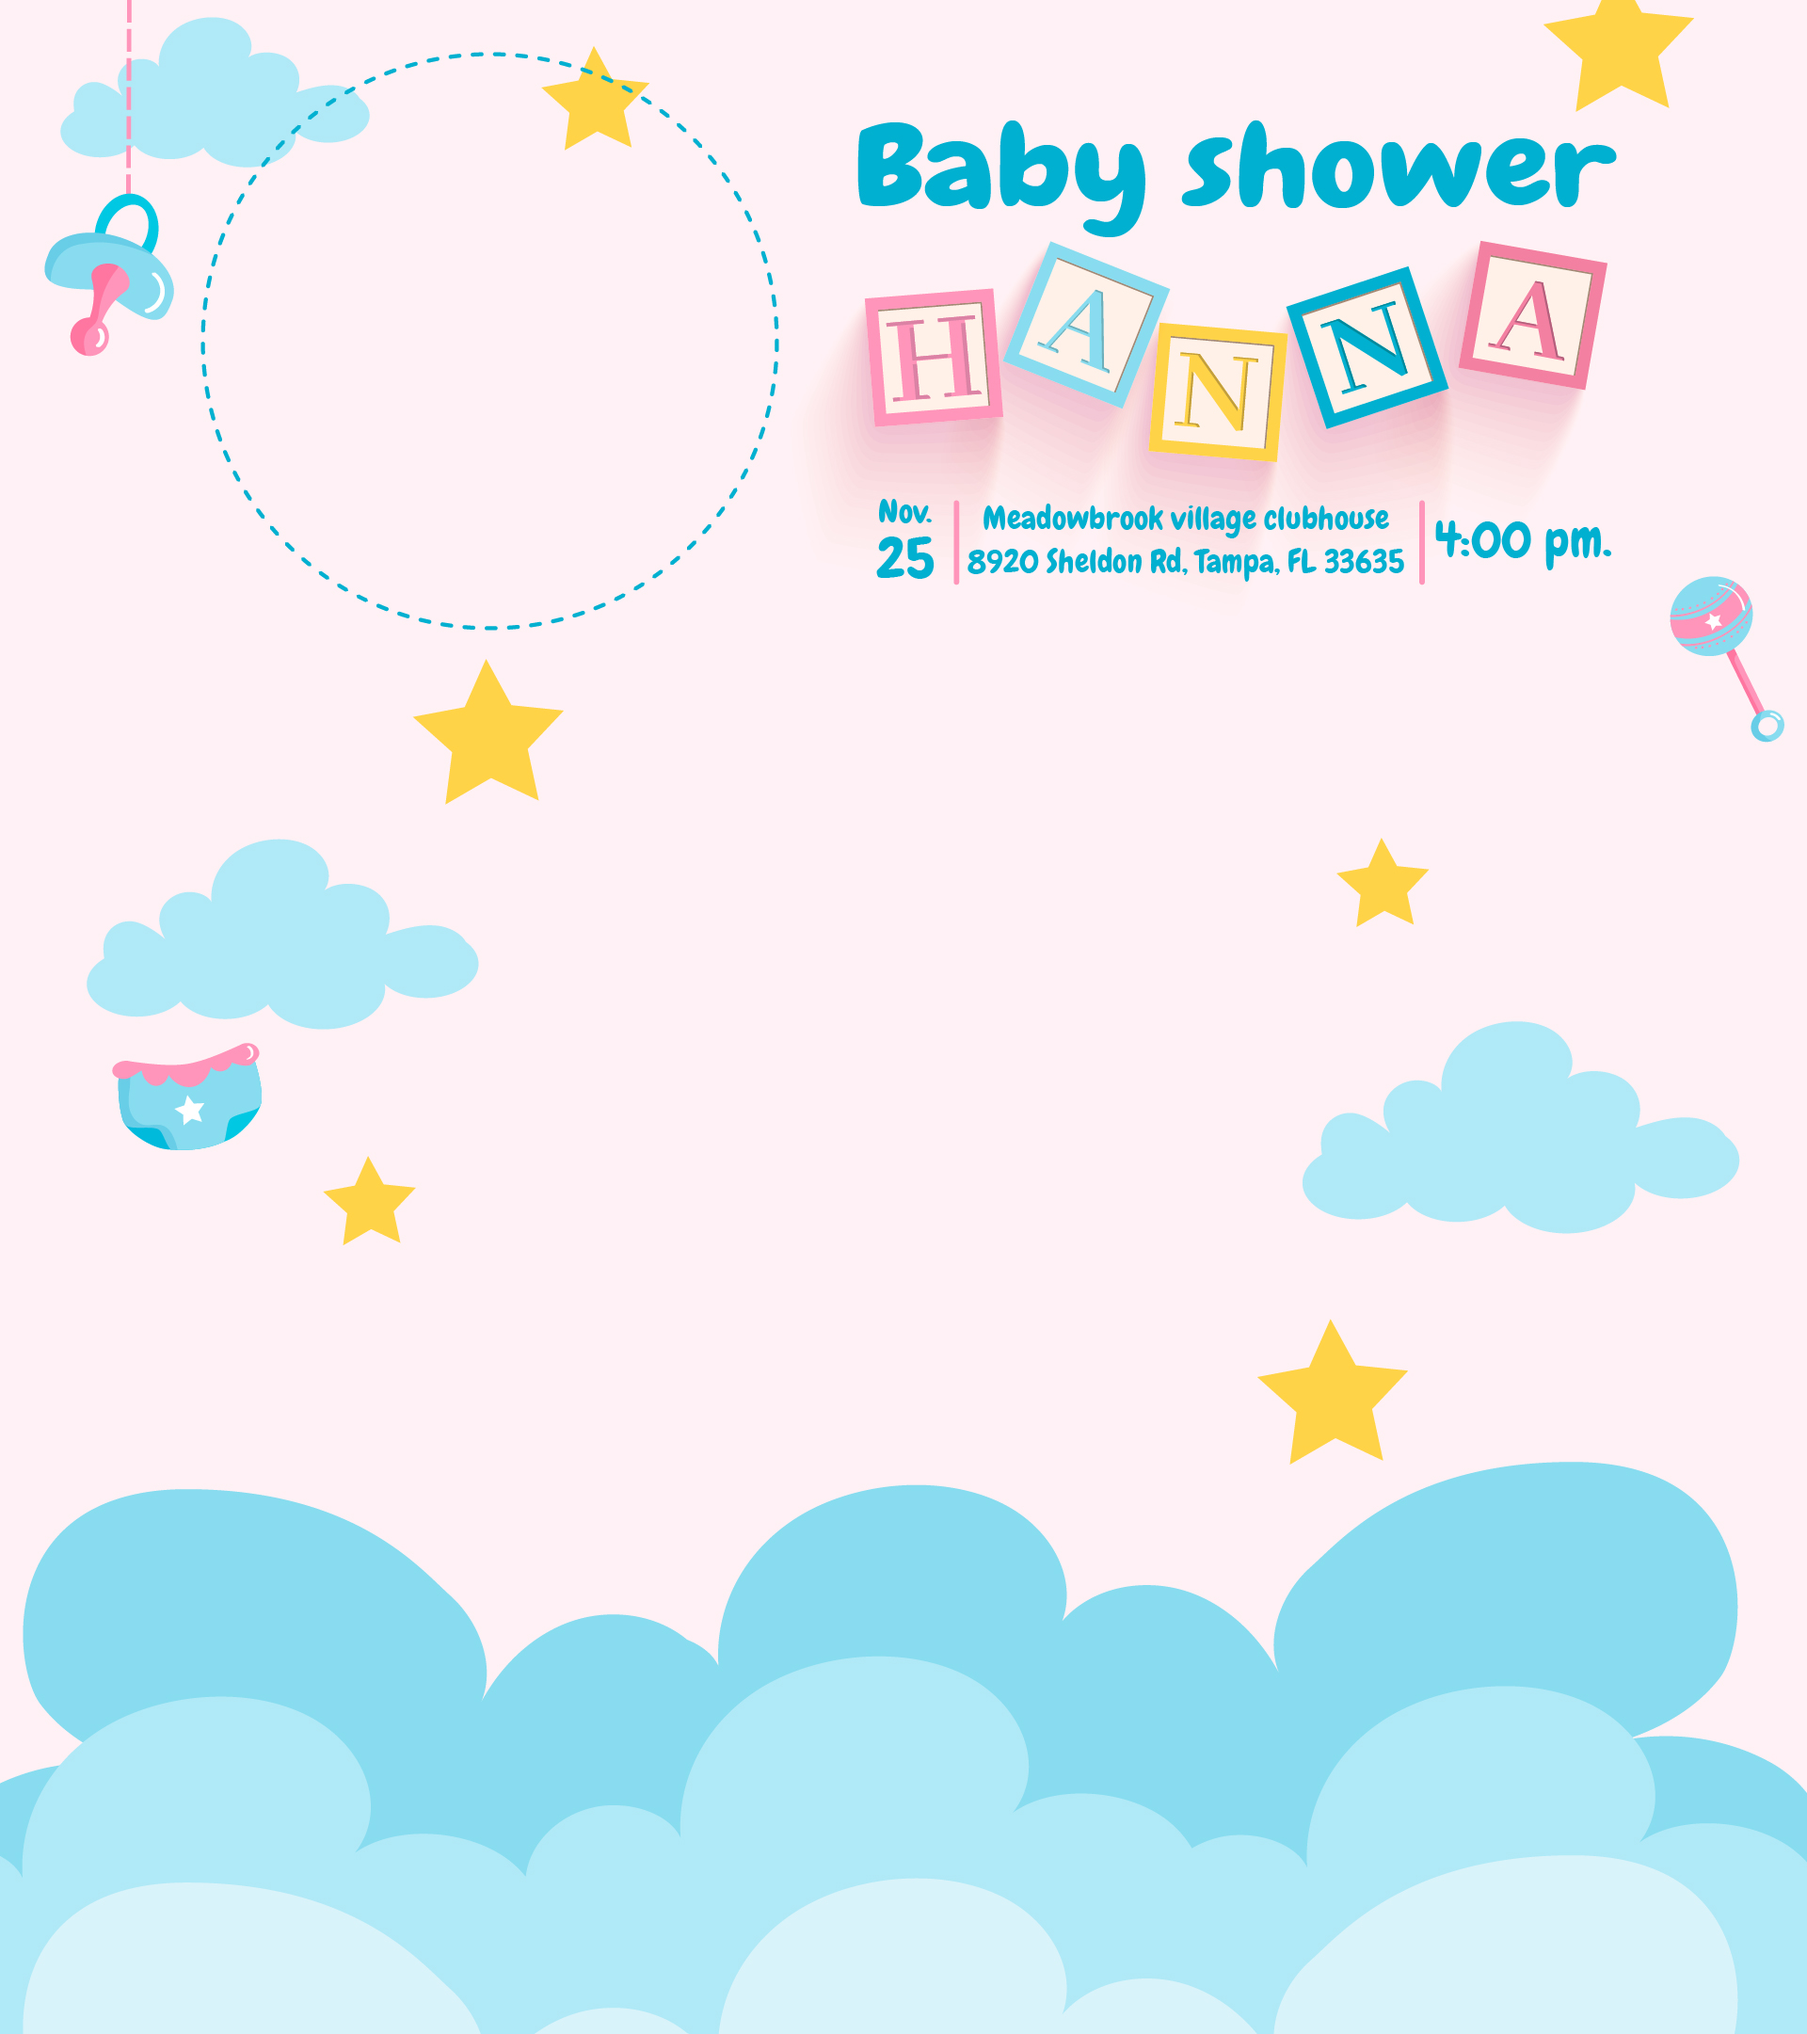
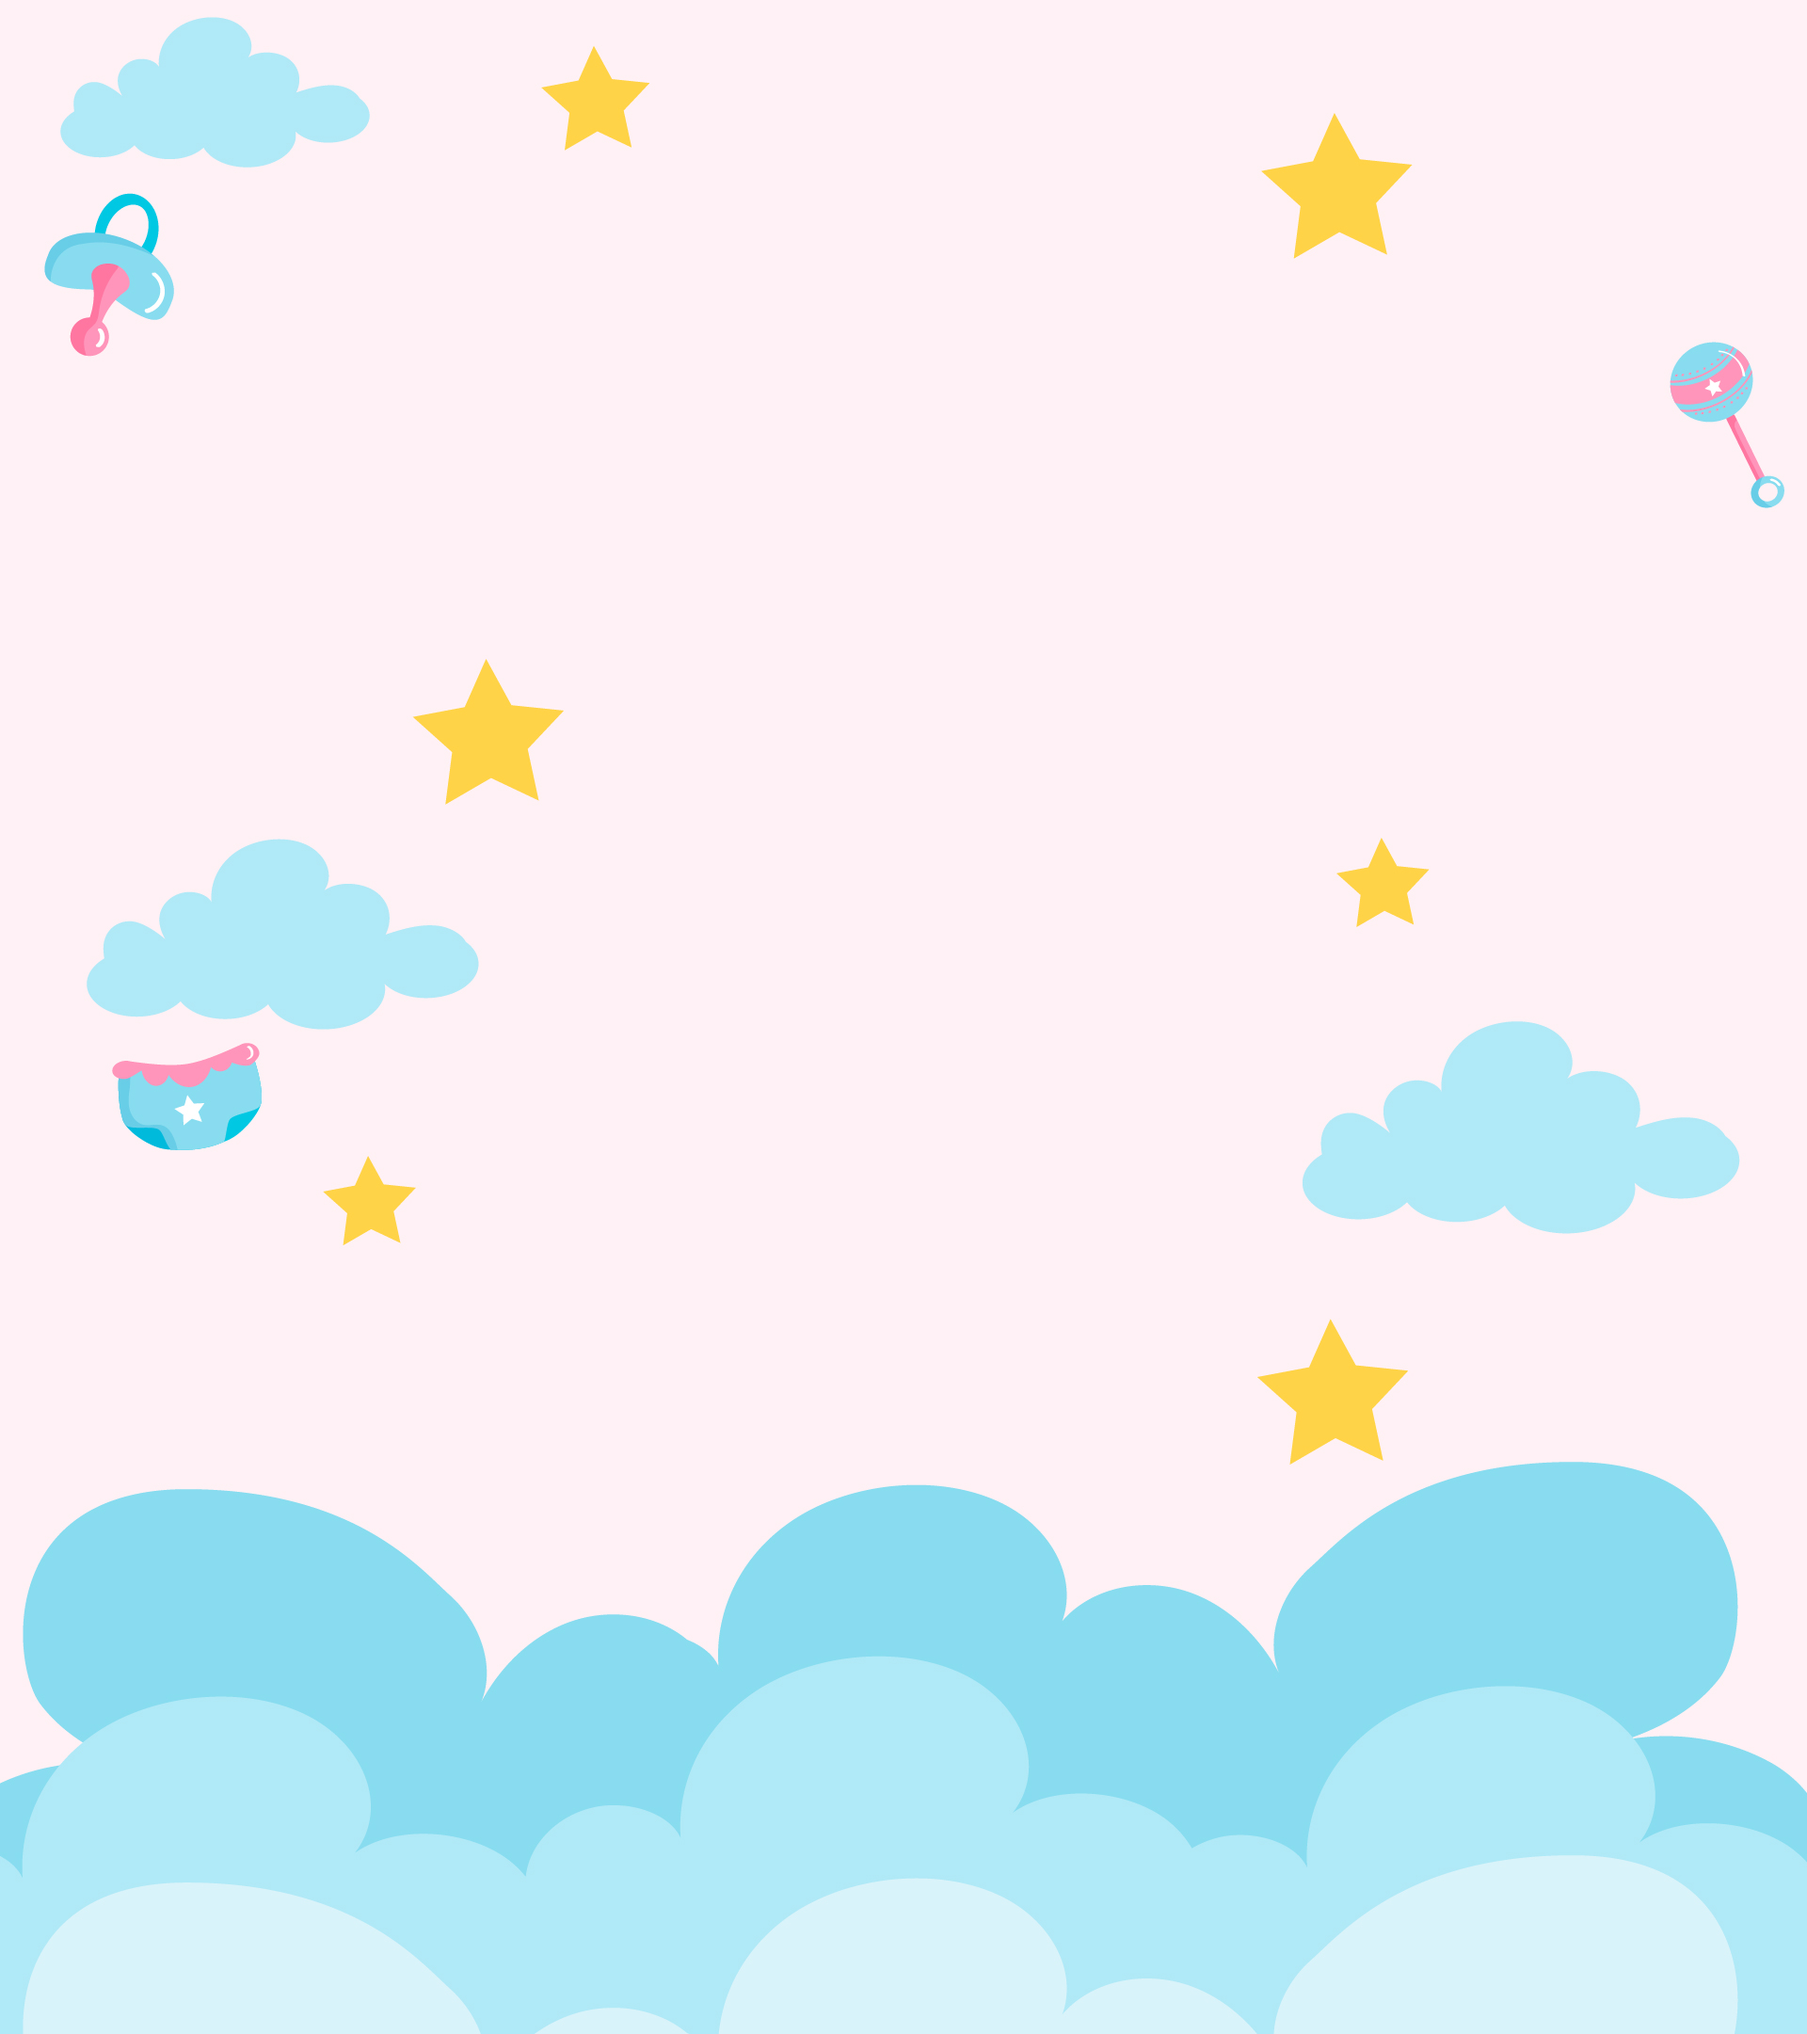
Finalizada la portada, trabajando en el cuerpo

diff --git a/src/Carrusel.jsx b/src/Carrusel.jsx
@@ -1,0 +1,35 @@
+import React, { useState } from 'react';
+import './Carrusel.css'
+
+const Carrusel = () => {
+    const [currentIndex, setCurrentIndex] = useState(0);
+    const images = ['public/img/Imagen1.jpeg', 'public/img/Imagen2.jpeg', 'public/img/Imagen3.jpeg', 'public/img/Imagen4.jpeg',
+    'public/img/Imagen5.jpeg', 'public/img/Imagen6.jpeg', 'public/img/Imagen7.jpeg', 'public/img/SebasDani.jpeg']; // Agrega más imágenes según sea necesario
+
+    const prevSlide = () => {
+        setCurrentIndex((currentIndex === 0) ? images.length - 1 : currentIndex - 1);
+    };
+
+    const nextSlide = () => {
+        setCurrentIndex((currentIndex === images.length - 1) ? 0 : currentIndex + 1);
+    };
+
+    return (
+        <div className="carrusel">
+            <div className="imagenes">
+                {images.map((image, index) => (
+                    <img
+                        key={index}
+                        src={image}
+                        alt={`Imagen ${index + 1}`}
+                        style={{ display: index === currentIndex ? 'block' : 'none' }}
+                    />
+                ))}
+            </div>
+            <button className='anterior' onClick={prevSlide}>&larr;</button>
+            <button className='siguiente' onClick={nextSlide}>&rarr;</button>
+        </div>
+    );
+};
+
+export default Carrusel;

diff --git a/src/Hanna.css b/src/Hanna.css
@@ -6,7 +6,7 @@
 }
 
 .circulo{
-    width: 40%;
+    width: 35%;
     height: auto;
     border: 3px dashed var(--azul-baby);
     padding: 10px;
@@ -30,11 +30,67 @@
 }
 
 .informacion{
-    display: flex;
+    width: 55%;
+    display: grid;
     align-items: center;
+    justify-items: center;
 }
 
 .informacion h1{
     color: var(--azul-baby);
-    font-size: 30px;
+    font-size: 8vw;
+    margin: 0;
+}
+
+.informacion img{
+    width: 100%;
+}
+
+.info-dia {
+    display: flex;
+}
+
+.info-dia p{
+    color: var(--azul-baby);
+    display: grid;
+    padding: 0 10px 0 10px;
+    margin: 0;
+    font-size: 2vw;
+    text-align: center;
+    align-items: center;
+}
+
+.linea-vertical {
+    border-left: 4px solid var(--rosa-baby);
+    height: auto;
+    border-radius: 25%;
+}
+
+.general {
+    display: flex;
+    justify-content: center;
+    margin-top: 16px;
+    margin-bottom: 40px;
+}
+
+.body {
+    display: grid;
+    justify-content: center;
+    background-color: var(--white);
+    margin-top: 24px;
+    margin-bottom: 40px;
+    width: 80%;
+    height: auto;
+    color: var(--white);
+    border-radius: 20px;
+}
+.botones {
+    display: flex;
+    justify-content: center;
+}
+
+.carru {
+    display: flex;
+    justify-content: center;
+    width: 80%;
 }

diff --git a/src/App.css b/src/App.css
@@ -2,8 +2,8 @@
   --white: #FFFFFF;
   --black: #000000;
   --azul-baby: #00B0D0;
-  --text-input-field: #F7F7F7;
-  --hospital-green: #ACD9B2;
+  --rosa-baby: #FF95BA;
+  --amarillo-baby: #FFD347;
   --sm: 14px;
   --md: 16px;
   --lg: 18px;
@@ -31,7 +31,9 @@ nav {
   display: none;
 }
 .logo {
-  width: 170px;
+  width: 200px;
+  padding-top: 15px;
+  padding-bottom: 15px;
 }
 .navbar-left ul,
 .navbar-right ul {
@@ -48,18 +50,16 @@ nav {
 
 .navbar-right ul li a {
   text-decoration: none;
-  color: var(--very-light-pink);
-  border: 1px solid var(--white);
-  padding: 8px;
-  border-radius: 8px;
+  color: var(--amarillo-baby);
+  border: 2px solid var(--azul-baby);
+  padding: 10px;
+  border-radius: 10px;
 }
 
 .navbar-right ul li a {
-  font-weight: bold;
-  border: 1px solid var(--hospital-green);
-  color: var(--white);
-  background-color: var(--hospital-green);
-  margin-right: 10px;
+  border-color: var(--rosa-baby);
+  color: var(--rosa-baby);
+  margin-right: 15px;
 }
 
 /* Menu en mobile */
@@ -95,14 +95,7 @@ nav {
   font: inherit;
   cursor: pointer;
 }
-.email {
-  font-size: var(--sm);
-  font-weight: 300 !important;
-}
-.sign-out {
-  font-size: var(--sm);
-  color: var(--hospital-green) !important;
-}
+
 
 @media (max-width: 640px) {
   .menu {

diff --git a/src/Hanna.jsx b/src/Hanna.jsx
@@ -1,4 +1,7 @@
+import React from 'react'
+import ReactDOM from 'react-dom/client'
 import './Hanna.css'
+import Carrusel from './Carrusel.jsx'
 
 function Hanna() {
   
@@ -13,6 +16,24 @@ function Hanna() {
         <div className='informacion'>
           <h1>Baby Shower</h1>
           <img src='public/img/Hanna.png'></img>
+          <div className='info-dia'>
+            <p>Nov.<br></br>25</p>
+            <div className='linea-vertical'></div>
+            <p>Meadowbrook village clubhouse<br></br>8920 Sheldon Rd, Tampa, FL 33635</p>
+            <div className='linea-vertical'></div>
+            <p>4:00 PM</p>
+          </div>
+        </div>
+      </section>
+      <section className='general'>
+        <div className='body'>
+          <div className='botones'>
+            <a href='/'>Confirmar asistencia</a>
+            <a href='/'>Lista de regalos</a>
+          </div>
+          <div className='carru'>
+            <Carrusel />
+          </div>
         </div>
       </section>
     </>

diff --git a/src/Carrusel.css b/src/Carrusel.css
@@ -1,0 +1,35 @@
+.carrusel {
+    position: relative;
+    overflow: hidden;
+    border-radius: 30px;
+}
+
+.imagenes {
+    display: flex;
+    transition: transform 0.5s ease;
+}
+
+.imagenes img {
+    width: 100%;
+    display: block;
+}
+
+button {
+    position: absolute;
+    top: 50%;
+    transform: translateY(-50%);
+    background: rgba(0, 0, 0, 0.5);
+    color: white;
+    border: none;
+    padding: 10px;
+    cursor: pointer;
+    border-radius: 4px;
+}
+
+.anterior {
+    left: 10px;
+}
+
+.siguiente {
+    right: 10px;
+}

diff --git a/src/App.jsx b/src/App.jsx
@@ -22,7 +22,7 @@ function App() {
           
           <ul>
             <li>
-              <a href="/">All</a>
+              <a href="/">Home</a>
             </li>
             <li>
               <a href="/">Regalos</a>
